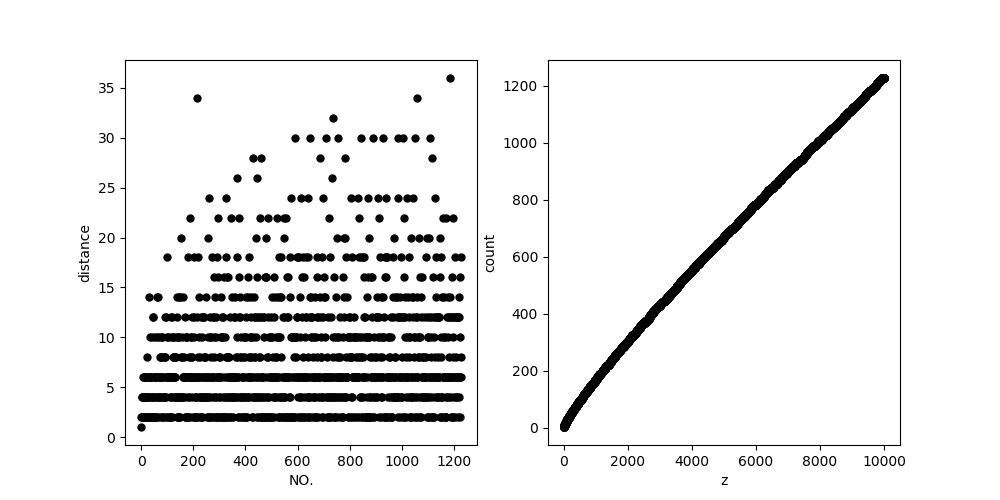
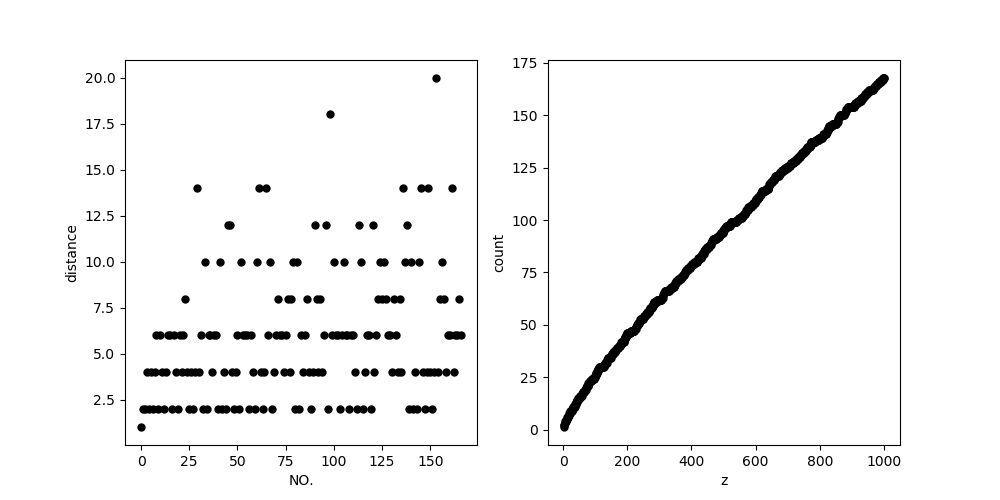
code review by zheng

diff --git a/homework1+2/U201611930/plot.py b/homework1+2/U201611930/plot.py
@@ -16,7 +16,7 @@ def fun(x):
             i+=1
     return flag
 
-z=10000
+z=1000
 a=[]
 i=2
 while i<z:
@@ -34,8 +34,8 @@ for k in range(j):
     x=x+[k]
 
 count=[]
-m=2
-n=0
+m = 2
+n = 0
 while m<=z:
     if fun(m):
         n+=1;

diff --git a/homework1+2/U201611919/U201611930.md b/homework1+2/U201611919/U201611930.md
@@ -1,0 +1,12 @@
+# <center>Code Review
+## 1.问题
+* 首先是关于功能的实现有关的问题：仔细阅读了你关于自己程序的readme之后，可以看出，你的程序只实现了相当基础的一部分的功能，而在实现的功能中，也并不完善，譬如音乐播放的功能，完全不能手动操控，而且在退出了第三级，回到第二级的时候，原本只在第三级播放的音乐依旧持续播放；
+* 关于界面的美观程度，通关观察模拟器可以比较直观的发现，此程序在排版等方面只用了一种方式，也就是从上至下，等间隔排序且居中。由此造成的有界面相当单调等问题；
+* 查看了你的程序之后，可以发现一个非常明显的问题，那就是程序结构相当冗余，譬如：在weekly、laugh、attack、warm中，其wxml文件中的主体部分完全相同，且其中的播放与暂停开关完全没有作用，并且几乎所有的wxss文件中都有相同的设置程序。因此在你的程序中有着非常复杂的分级和众多目录，令人眼花缭乱。另外，目录、格式等的命名也并非全部都按照命名的规范来进行，因此观看的时候有些吃力；
+* 在程序中完全没有注释，对于不是看着你一点点写下来程序的人来说，想要快速了解这个程序的结构十分困难；
+* 有时在重启程序的时候，会出现提示“重启时间过长，请检查是否在程序中存在死循环或复杂运算”；
+## 2.建议
+* 可以从网上寻找有关教程，试着补足你所写程序的功能；
+* 多尝试一些界面格式的设置，使得界面更加美观；
+* 减少程序的冗余，尝试将相同的部分进行合并；
+* 修改命名，使其更易理解。
